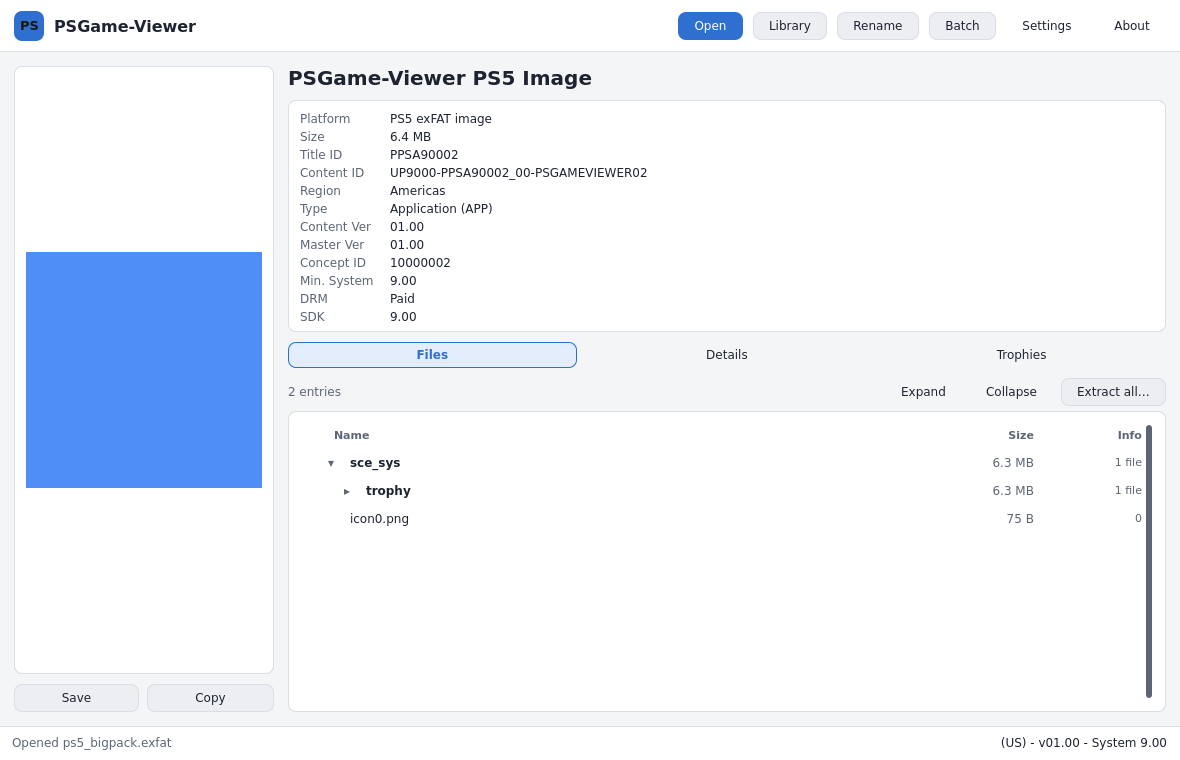
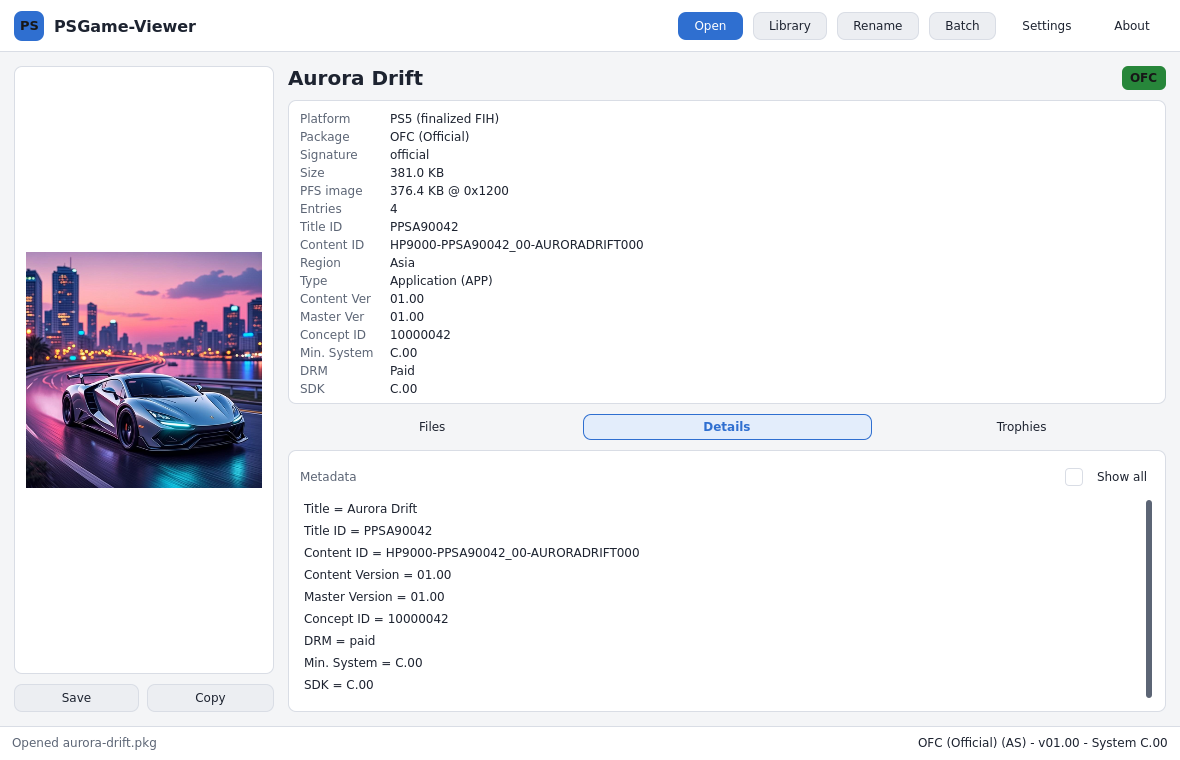
docs(readme): real app screenshots with original demo artwork
Replace the screenshots (which showed the flat-color synthetic sample
icon) with captures of two synthetic demo packages that carry original
AI-generated cover art: a PS4 app in the dark theme and a PS5 app on
the Details tab in the light theme. No copyrighted game data is
bundled; the README note says so.

diff --git a/README.md b/README.md
@@ -11,9 +11,9 @@ It is read-only by design. Your game files are never modified, and nothing is in
 
 | Dark theme | Light theme |
 | --- | --- |
-| ![Main view with a PS4 package open](docs/screenshots/main-view.png) | ![The same file in the light theme](docs/screenshots/light-theme.png) |
+| ![A PS4 package open in the dark theme](docs/screenshots/main-view.png) | ![A PS5 package open in the light theme, Details tab](docs/screenshots/light-theme.png) |
 
-The demo file shown here is a synthetic sample package — no copyrighted game data is bundled with this project.
+Both demo files are synthetic sample packages with original artwork — no copyrighted game data is bundled with this project.
 
 ## Supported formats
 
